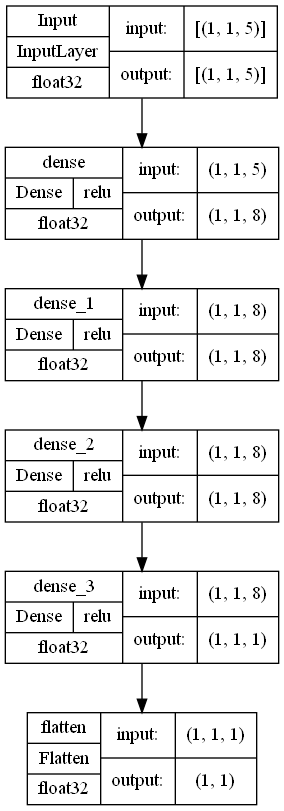
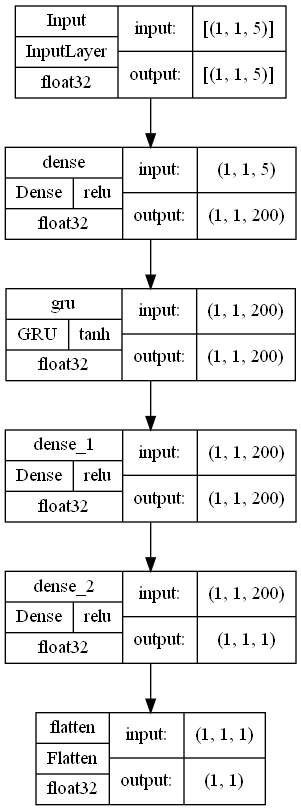
commit

diff --git a/nnLACTOSE.py b/nnLACTOSE.py
@@ -6,6 +6,7 @@ import matplotlib.pyplot as plt
 from time import perf_counter_ns
 import sys
 from IPython.display import Image, display
+from pprint import pprint
 
 # %%
 class LactoseModel:
@@ -112,7 +113,7 @@ class LactoseModel:
 
         self.OutputSize = tuple(newOutputSize)
 
-        self.LossFunction = tf.keras.losses.MeanAbsolutePercentageError()
+        self.LossFunction = tf.keras.losses.MeanSquaredError()
         self.Optimizer = tf.keras.optimizers.RMSprop()
         self.Metric = tf.keras.metrics.Accuracy()
         self.Model(tf.ones(self.InputSize))
@@ -165,8 +166,22 @@ class LactoseModel:
                 if Input == self.ConditionArray[-1]:
                     self.SavedWeightsDict[f"{len(self.ConditionArray)}"] = Weights
 
+    def Predict(self, Input, CheckInputNumber=-1):
+        Output = np.array([])
+        for step, Features in enumerate(Input):
+            InputToModel = Features
+            InputCheck = InputToModel[CheckInputNumber]
+            ModelWeights, ModelNumber = self.CheckInputAndReturnModel(InputCheck)
+            self.Model.set_weights(ModelWeights)
+            InputToModel = tf.reshape(InputToModel, self.InputSize)
+            Output = np.append(Output, self.Model(InputToModel).numpy())
+        return Output
+
     def Train(self, Dataset, Epochs=1, CheckInputNumber=-1):
         ModelLosses = dict()
+        ModelLosses["loss"] = dict()
+        DatasetInput = Dataset[:, :-1]
+        DatasetOutput = Dataset[:, -1]
         for i in range(self.NumberOfModelsRequired):
             ModelLosses[f"metric_history{i}"] = np.array([])
             ModelLosses[f"loss_history{i}"] = np.array([])
@@ -174,7 +189,7 @@ class LactoseModel:
             print(f"Epoch {epoch}")
 
             for step, FeatureAndAnswer in enumerate(Dataset):
-                print(f"Step {step} of Epoch {epoch}")
+                print(f"Step {step} of Epoch {epoch}", end="\r", flush=True)
 
                 Input = FeatureAndAnswer[0 : (len(FeatureAndAnswer) - 1)]
                 Answer = FeatureAndAnswer[len(FeatureAndAnswer) - 1]
@@ -202,7 +217,7 @@ class LactoseModel:
                 self.Metric.update_state(Answer, Prediction)
                 for i in range(self.NumberOfModelsRequired):
                     if i == ModelNumber:
-                        ModelLosses[f"{i}"] = Loss.numpy()
+                        ModelLosses["loss"][f"Model No.{i}"] = Loss.numpy()
 
                         ModelLosses[f"metric_history{i}"] = np.append(
                             ModelLosses[f"metric_history{i}"],
@@ -211,29 +226,23 @@ class LactoseModel:
                         ModelLosses[f"loss_history{i}"] = np.append(
                             ModelLosses[f"loss_history{i}"], Loss.numpy()
                         )
+                PrintLoss = ModelLosses["loss"]
 
-                for i in range(self.NumberOfModelsRequired):
-
-                    if i != self.NumberOfModelsRequired - 1:
-                        print(ModelLosses[f"{i}"])
-                    else:
-                        print(ModelLosses[f"{i}"], end="\r", flush=True)
+                if step % (len(DatasetOutput) - 1) == 0 and step != 0:
+                    print(
+                        f"Step {step} of Epoch {epoch} - Loss: {PrintLoss} - Metric: {self.Metric.result().numpy()}"
+                    )
+                    self.Metric.reset_states()
+                    ModelPrediction = self.Predict(
+                        DatasetInput, CheckInputNumber=CheckInputNumber
+                    )
+                    plt.plot(ModelPrediction)
+                    plt.plot(DatasetOutput)
+                    plt.savefig(f"{epoch}.png")
+                    plt.close()
 
             self.Train_Accuracy = self.Metric.result()
-            self.Metric.reset_states()
-
-    def Predict(self, Input, CheckInputNumber=-1, Plot=False):
-        Output = np.array([])
-        for Features in enumerate(Input):
-            InputToModel = Features
-            InputCheck = InputToModel[CheckInputNumber]
-            ModelWeights, ModelNumber = self.CheckInputAndReturnModel(InputCheck)
-            self.Model.set_weights(ModelWeights)
-            InputToModel = tf.reshape(InputToModel, self.InputSize)
-            Output = np.append(Output, self.Model(InputToModel).numpy())
-        if Plot:
-            plt.plot(Output)
-            plt.show()
+            # self.Metric.reset_states()
 
     def SaveModelWeights(self, FileName):
         for i in range(self.NumberOfModelsRequired):

diff --git a/test.py b/test.py
@@ -45,9 +45,9 @@ import nnLACTOSE as nnLACTOSE
 
 LayerInfoDict = {
     "0": {"size": (1, 5), "type": "input"},
-    "1": {"size": 8, "type": "dense"},
-    "2": {"size": 8, "type": "dense"},
-    "3": {"size": 8, "type": "dense"},
+    "1": {"size": 200, "type": "dense"},
+    "2": {"size": 200, "type": "gru"},
+    "3": {"size": 200, "type": "dense"},
     "4": {"size": 1, "type": "dense"},
 }
 ConditionArray = [-1, -0.6, -0.2, 0.2, 0.5, 0.8, 1.0]
@@ -58,3 +58,4 @@ Model.Train(Dataset=Dataset, Epochs=50)
 Model.SaveModelWeights("./Model1/WeightOfModel")
 
 # %%
+Model.Predict(Input, Plot=True)
